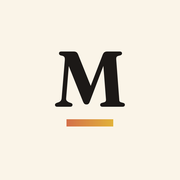
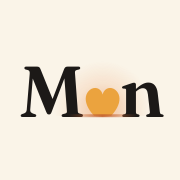
Add files via upload
v 10.13.6

Changed region(s): [[0.1111, 0.2778, 0.9167, 0.7222]]

diff --git a/index.html b/index.html
@@ -5,9 +5,14 @@
   <meta name="viewport" content="width=device-width, initial-scale=1.0">
   <title>I Love Mondays</title>
   <!-- Home-screen install: "Add to home screen" in Chrome opens the app
-       full-screen with this icon. The three files sit beside index.html. -->
+       full-screen with the "Mon" rising-heart icon (icon-192.png, icon-512.png,
+       apple-touch-icon.png). Browser tabs use the simplified heart-sun mark
+       (favicon.svg, with PNG fallbacks), since "Mon" is unreadable at 16px.
+       All of these sit beside index.html. -->
   <link rel="manifest" href="manifest.webmanifest">
-  <link rel="icon" type="image/png" href="icon-192.png">
+  <link rel="icon" type="image/svg+xml" href="favicon.svg">
+  <link rel="icon" type="image/png" sizes="32x32" href="favicon-32.png">
+  <link rel="icon" type="image/png" sizes="16x16" href="favicon-16.png">
   <link rel="apple-touch-icon" href="apple-touch-icon.png">
   <meta name="theme-color" content="#FAF4E8">
   <script src="https://cdn.jsdelivr.net/npm/firebase@12.19.0/firebase-app-compat.js"></script>
@@ -15322,7 +15327,7 @@ function Planner() {
     openEdit: isOwnView ? openEditById : null,
     openCreate: isOwnView ? openCreate : null
   };
-  const APP_VERSION = "v10.13.5";
+  const APP_VERSION = "v10.13.6";
   function phoneStepDay(delta) {
     setPhoneSlide(delta > 0 ? "next" : "prev");
     const i = phoneDay + delta;
